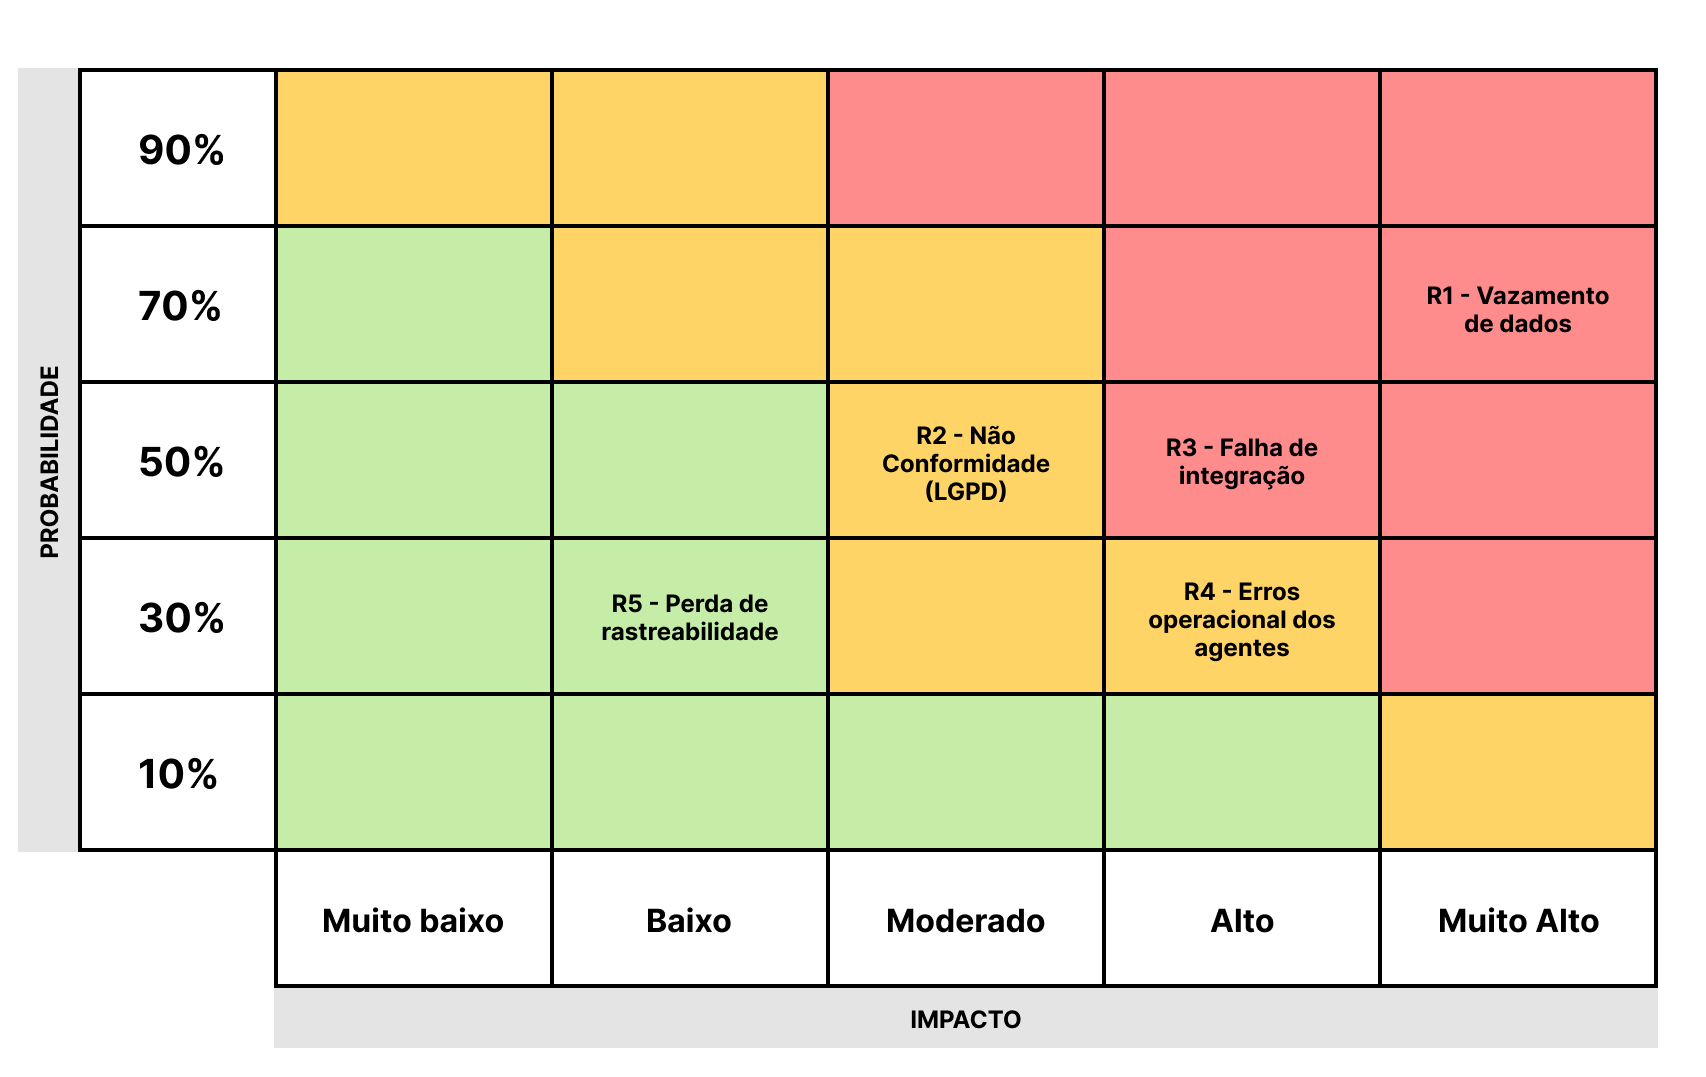
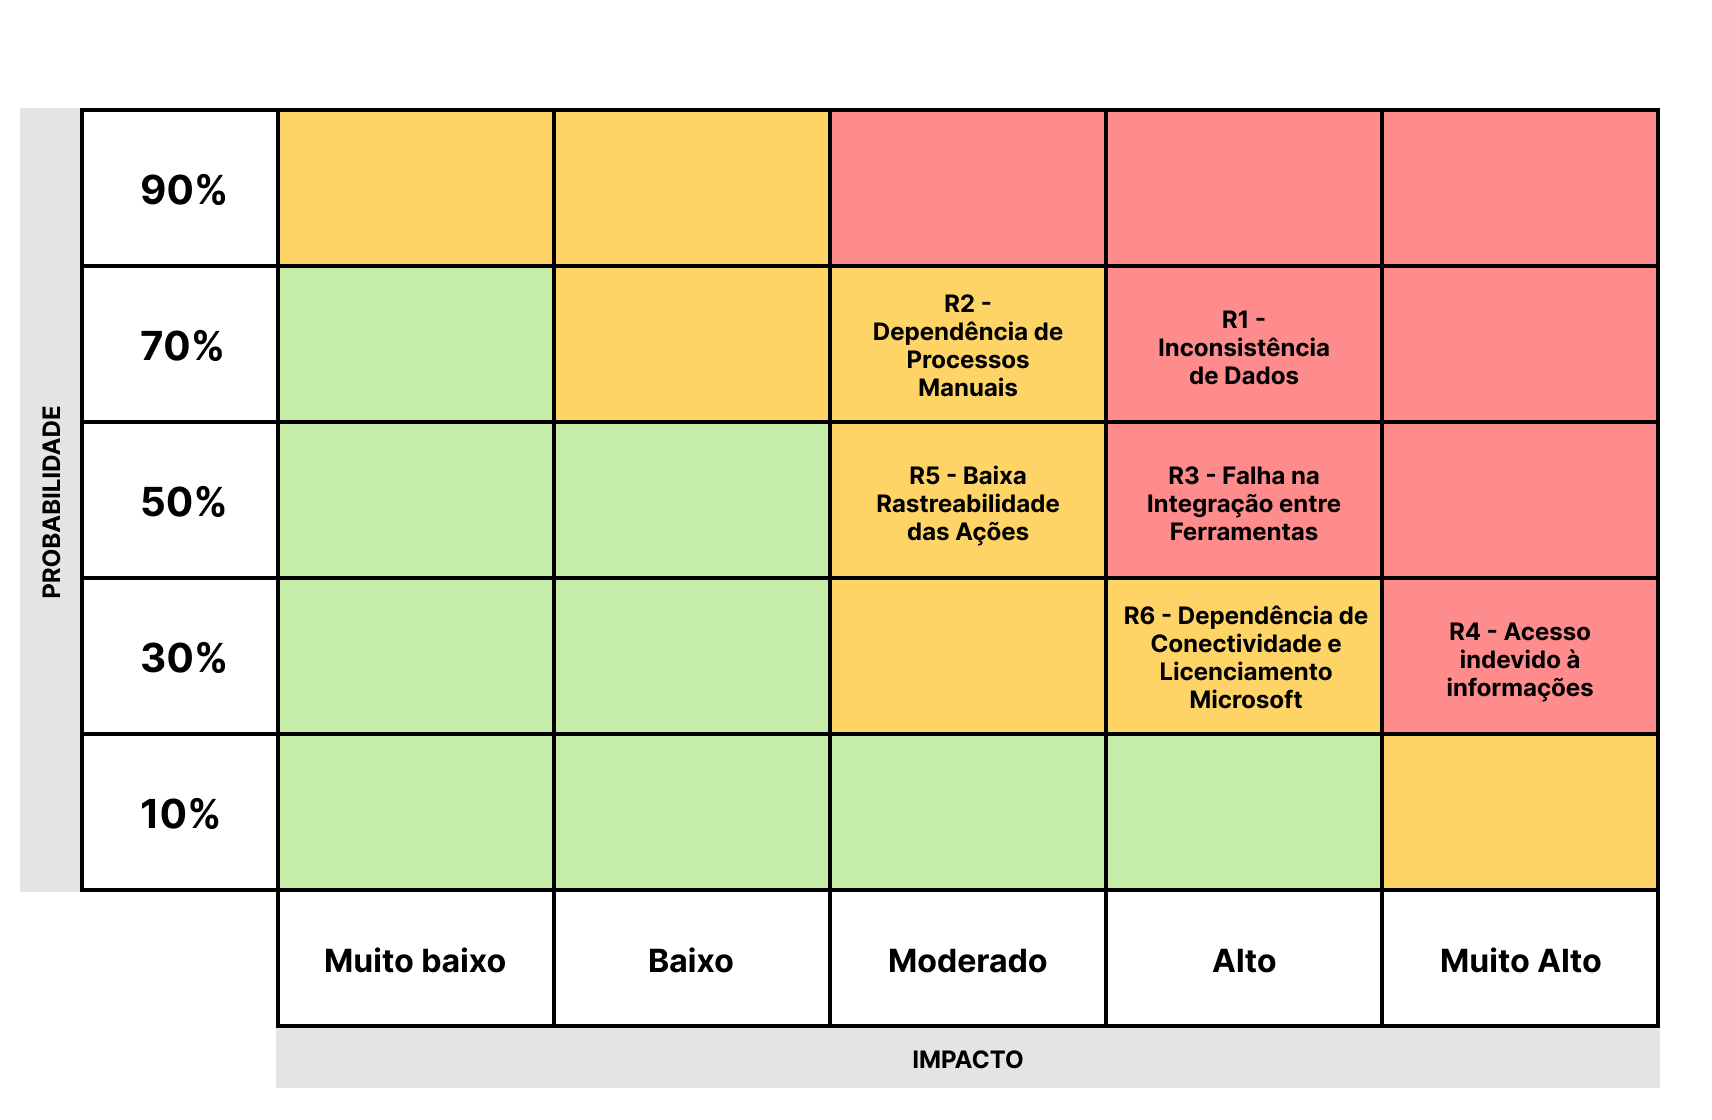
docs: update matrix for current system risks

diff --git a/documentos/Projeto.md b/documentos/Projeto.md
@@ -371,11 +371,10 @@ A nova arquitetura deve suportar a transição entre os fluxos, garantindo os se
 
 ## 2.2 Riscos e Oportunidades
 
-_(Identifique riscos e oportunidades associados ao sistema atual, considerando aspectos técnicos, de negócio e legais.)_
-
 ### 2.2.1 Matriz de Riscos
 
-&emsp;A matriz de risco apresentada tem como objetivo identificar e classificar os principais riscos associados à integração de agentes de Inteligência Artificial (IA) ao sistema de gestão de projetos do Metrô de São Paulo. Foram considerados riscos técnicos, de negócio e de compliance, avaliados conforme sua probabilidade de ocorrência e impacto nos níveis de serviço (SLA), abrangendo aspectos de disponibilidade, segurança, desempenho, rastreabilidade e tolerância a falhas.
+&emsp;O sistema atual de gestão de portfólio do Metrô de São Paulo utiliza majoritariamente ferramentas do ecossistema Microsoft (_SharePoint_, _Power Automate_, _Power BI_) e o _Miro_ como apoio colaborativo. Apesar de atender às demandas básicas, essa estrutura apresenta riscos operacionais e técnicos relacionados à integração, à dependência de processos manuais e à governança dos dados.
+
 
 <div align="center">
   <sub>Figura X - Matriz de Risco</sub>
@@ -385,36 +384,36 @@ _(Identifique riscos e oportunidades associados ao sistema atual, considerando a
 
 ### 2.2.2 Riscos ligados ao sistema
 
-| Código | Nome do Risco | Tipo | Descrição | Aspectos Afetados | Probabilidade | Impacto | Nível de Risco |
-|:--:|:--|:--|:--|:--|:--:|:--:|:--:|
-| **R1** | **Vazamento de Dados** | Técnico / Compliance | Exposição de informações sensíveis de projetos devido a falhas de autenticação, permissões ou configuração inadequada dos agentes de IA. | **Segurança**, **Confiabilidade** | 90% | Muito Alto | Crítico |
-| **R2** | **Não Conformidade (LGPD)** | Compliance / Negócio | Tratamento indevido de dados pessoais em interações com IA, contrariando normas de privacidade e compliance. | **Segurança**, **Legalidade**, **Governança** | 70% | Alto | Alto |
-| **R3** | **Falha de Integração** | Técnico | Indisponibilidade ou erro na comunicação entre as plataformas Miro, SharePoint e os agentes de IA. | **Disponibilidade**, **Desempenho**, **Tolerância a Falhas** | 70% | Alto | Alto |
-| **R4** | **Erro Operacional dos Agentes** | Técnico / Negócio | Execução incorreta de ações automatizadas pelos agentes (como mover ou excluir arquivos indevidamente). | **Rastreabilidade**, **Confiabilidade**, **Disponibilidade** | 50% | Alto | Alto |
-| **R5** | **Perda de Rastreabilidade** | Técnico | Falhas no registro de logs ou na trilha de auditoria das ações realizadas pelos agentes de IA. | **Rastreabilidade**, **Auditoria**, **Transparência** | 50% | Moderado | Médio |
+| Código | Nome do Risco | Tipo | Descrição | Aspectos Afetados | Probabilidade | Impacto |
+|:--:|:--|:--|:--|:--|:--:|:--:|
+| **R1** | **Inconsistência de Dados** | Técnico / Negócio | O preenchimento manual de informações em diferentes plataformas (Miro, SharePoint, Excel) pode gerar divergências e falta de padronização. | **Precisão**, **Integridade de Dados** | 70% | Alto |
+| **R2** | **Dependência de Processos Manuais** | Técnico / Operacional | A ausência de automação completa para entrada, validação e atualização de dados aumenta a chance de erros humanos. | **Desempenho**, **Disponibilidade**, **Confiabilidade** | 80% | Moderado | 
+| **R3** | **Falha de Integração entre Ferramentas** | Técnico | Problemas de sincronização entre _Power Automate_, _Power BI_ e _SharePoint_ podem comprometer relatórios e atualizações de status. | **Disponibilidade**, **Tolerância a Falhas**, **Desempenho** | 60% | Alto | 
+| **R4** | **Acesso Indevido a Informações** | Compliance / Segurança | Falhas nas permissões de acesso no _SharePoint_ ou _Power BI_ podem permitir a visualização de dados sensíveis por usuários não autorizados. | **Segurança**, **Governança**, **Confidencialidade** | 40% | Muito Alto | 
+| **R5** | **Baixa Rastreabilidade das Ações** | Técnico / Governança | As plataformas atuais não possuem logs integrados e centralizados de auditoria das ações dos usuários e fluxos do _Power Automate_. | **Rastreabilidade**, **Auditoria**, **Transparência** | 50% | Moderado | 
+| **R6** | **Dependência de Conectividade e Licenciamento Microsoft** | Negócio / Técnico | A indisponibilidade de serviços Microsoft ou falhas de licenciamento podem interromper o funcionamento das automações e relatórios. | **Disponibilidade**, **Continuidade Operacional** | 30% | Alto | 
+
 
 ### 2.2.3 Oportunidades de melhoria dos SLAs
 
-A integração de agentes de IA e a especificação de uma arquitetura mais flexível e escalável representam oportunidades relevantes para o aprimoramento dos níveis de serviço (SLA) do sistema de gestão de portfólio do Metrô. Essas melhorias visam fortalecer os pilares de **segurança, disponibilidade, desempenho, rastreabilidade e tolerância a falhas**, garantindo maior confiabilidade e eficiência operacional.
+&emsp;Apesar de funcional, o ecossistema apresenta oportunidades de melhoria voltadas à disponibilidade, desempenho, segurança, rastreabilidade e governança dos dados, com foco em elevar os níveis de serviço (SLA) e reduzir riscos operacionais.
 
 | Código | Oportunidade | Descrição | SLA Impactado | Benefício Esperado |
 |:--:|:--|:--|:--|:--|
-| **O1** | **Monitoramento Inteligente de Disponibilidade** | Utilização de agentes de IA para monitorar continuamente a saúde dos serviços (SharePoint, Power BI, Miro), antecipando falhas e notificando a equipe de TI. | **Disponibilidade**, **Tolerância a Falhas** | Redução do tempo médio de inatividade e melhoria do tempo de resposta a incidentes. |
-| **O2** | **Auditoria Automatizada de Logs** | Implementação de um sistema de rastreamento inteligente que valide e consolide automaticamente as ações realizadas pelos agentes e usuários. | **Rastreabilidade**, **Segurança** | Fortalecimento da rastreabilidade, mitigando riscos de perda de logs e apoiando auditorias internas. |
-| **O3** | **Otimização de Desempenho dos Processos** | Adoção de pipelines automatizados para tratamento de dados e geração de relatórios, reduzindo o tempo de processamento. | **Desempenho**, **Disponibilidade** | Aumento da eficiência e da velocidade na entrega de relatórios gerenciais e indicadores de portfólio. |
-| **O4** | **Gestão Preditiva de Erros e Falhas** | Uso de IA para prever e sugerir correções em anomalias no fluxo de dados e integrações. | **Tolerância a Falhas**, **Desempenho** | Redução de falhas operacionais e maior estabilidade das integrações. |
-| **O5** | **Reforço de Políticas de Segurança e Compliance** | Aplicação de mecanismos automáticos de verificação de conformidade com a LGPD e políticas internas de governança de dados. | **Segurança**, **Compliance** | Diminuição do risco de não conformidade e vazamento de informações sensíveis. |
-| **O6** | **Indicadores Dinâmicos de SLA** | Implementação de painéis de controle (dashboards) inteligentes que consolidem métricas de disponibilidade, incidentes e falhas. | **Transparência**, **Governança** | Acompanhamento em tempo real dos níveis de serviço, facilitando a tomada de decisão. |
+| **O1** | **Automatização de Monitoramento de Serviços** | Criação de fluxos no Power Automate para monitorar a disponibilidade das integrações entre SharePoint, Power BI e Miro, com alertas automáticos em caso de falhas. | **Disponibilidade**, **Tolerância a Falhas** | Redução do tempo de detecção e resposta a incidentes, garantindo continuidade dos serviços. |
+| **O2** | **Padronização de Logs e Auditorias** | Implementação de uma política de versionamento e armazenamento centralizado de logs das ações realizadas nas plataformas. | **Rastreabilidade**, **Segurança** | Melhoria na rastreabilidade e suporte a auditorias internas e externas. |
+| **O3** | **Otimização de Processos no Power Automate** | Revisão e otimização dos fluxos de automação existentes para eliminar redundâncias e gargalos de execução. | **Desempenho**, **Disponibilidade** | Redução do tempo de processamento e aumento da eficiência operacional. |
+| **O4** | **Melhoria na Integração entre Ferramentas** | Criação de conectores otimizados entre SharePoint, Power BI e Miro, minimizando falhas de sincronização e perda de dados. | **Disponibilidade**, **Rastreabilidade** | Garantia de consistência dos dados e maior confiabilidade nas informações compartilhadas. |
+| **O5** | **Fortalecimento das Políticas de Segurança e Compliance** | Revisão dos controles de acesso, autenticação e permissões no SharePoint e Miro, alinhando-se às diretrizes da LGPD. | **Segurança**, **Compliance** | Diminuição do risco de acesso indevido e exposição de informações sensíveis. |
+| **O6** | **Criação de Painéis de Acompanhamento de SLA** | Desenvolvimento de dashboards no Power BI para consolidar métricas de disponibilidade, desempenho e incidentes. | **Governança**, **Transparência** | Visibilidade contínua sobre o cumprimento dos SLAs e suporte à tomada de decisão gerencial. |
 
-#### Síntese das Oportunidades
+As oportunidades identificadas visam fortalecer o sistema de gestão de projetos atual por meio de:
+- **Automatização e otimização de fluxos**, reduzindo falhas e atrasos operacionais.  
+- **Aprimoramento da rastreabilidade e governança**, com maior controle sobre logs e dados.  
+- **Reforço da segurança e conformidade**, garantindo aderência à LGPD e políticas internas.  
+- **Melhoria da integração entre ferramentas**, assegurando consistência e confiabilidade das informações.  
 
-As oportunidades listadas promovem avanços significativos na gestão do sistema:
-- **Automatização de processos críticos**, reduzindo falhas humanas.  
-- **Melhoria da resiliência operacional**, com mecanismos preditivos e de redundância.  
-- **Aprimoramento da conformidade e segurança**, garantindo aderência à LGPD.  
-- **Aumento da transparência e rastreabilidade**, assegurando governança dos dados e auditoria confiável.
-
-Essas melhorias consolidam um ambiente mais estável e seguro para futuras integrações de IA e suportam a evolução contínua do ecossistema tecnológico do Metrô de São Paulo.
+Essas iniciativas contribuem para a consolidação de um **ecossistema mais estável, seguro e eficiente**, promovendo a evolução contínua da gestão de portfólio do Metrô de São Paulo.
 
 # 3. Visão de Modelo Comportamental (Simulação do Sistema Atual)
 
